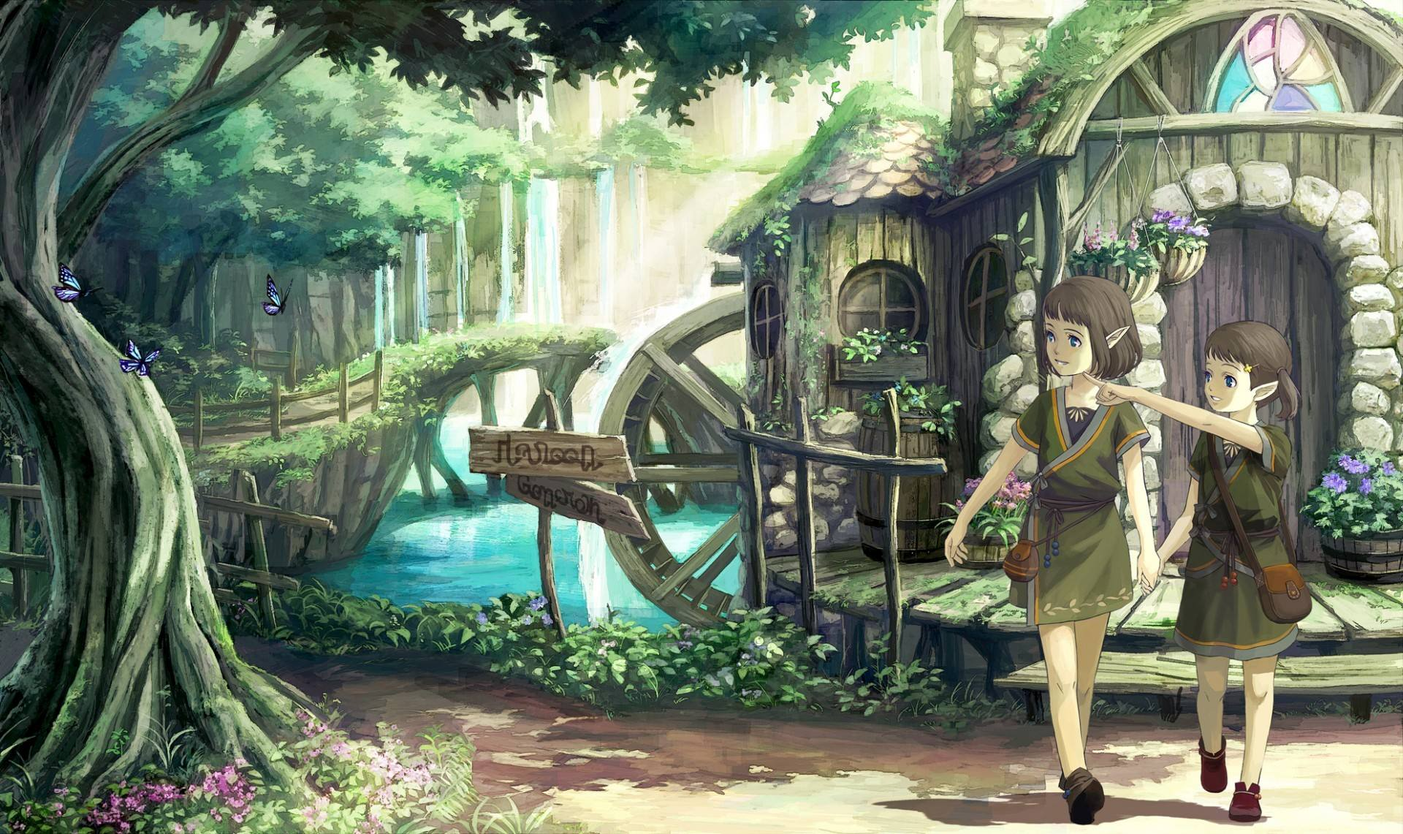
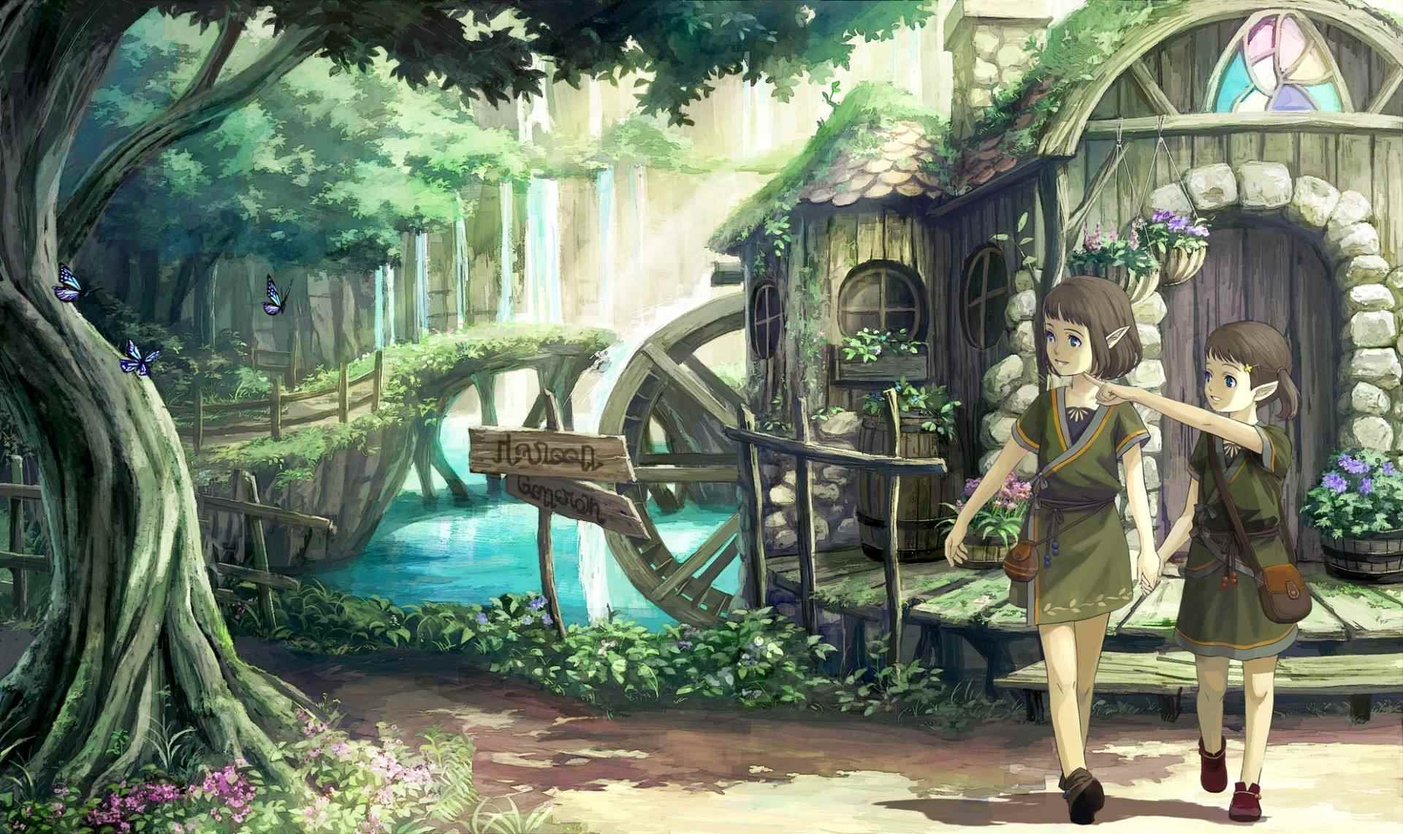
图片压缩 🐰

Changed region(s): [[0.7812, 0.2761, 0.8438, 0.3067]]

diff --git a/gulpfile.js b/gulpfile.js
@@ -33,7 +33,7 @@ gulp.task('minify-img', function () {
         .pipe(imagemin(
             [
                 imagemin.gifsicle({interlaced: true}),
-                imagemin.mozjpeg({quality: 75, progressive: true}),
+                imagemin.mozjpeg({quality: 85, progressive: true}),
                 imagemin.optipng({optimizationLevel: 5}),
                 imagemin.svgo({
                     plugins: [
